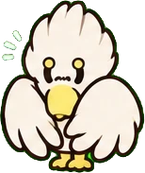
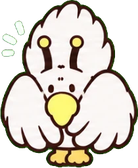
랜덤 디펜스: 기본 악당 3종도 원작 괴물 그림으로 · 회복 보스(큰 새) 줄 교체
코드로 그린 보라 괴물 대신 사람이 원작 만화를 참고해 만든 시트(tools/sheets/basic.webp)로:
꼬물이 = 가위바위보 · 단단이 = 피망 고기말이 · 졸개 = 오멘 키메라. 걷기 · 맞음 · 쓰러짐(처치 때 잠깐 남음).
- monsters_slice.py: BASIC_ROWS(e_ 파일, monsters.js 의 basic) 추가. 단단이 피망 초록이 번짐 깎기에 지워져 탁해져서
  원래 초록을 지키는 키로. 졸개는 긴 귀까지 키에 들어가 몸이 너무 작아 보여(사람 지적) 키 30 도트.
- mon.js 가 basic 을 불러오고, game.js 는 특성 없는 괴물에 basic 프레임 — 못 받으면 예전 그림 그대로.
- 회복 보스 줄은 다시 받은 한 줄 시트(bosses_heal.webp, ROW_SHEET). 파일 이름이 같아 sw.js VERSION v3.

Claude-Session: https://claude.ai/code/session_01Uqv9B2V2ARiMb2Naqp8vN9

diff --git a/assets/monsters/monsters.js b/assets/monsters/monsters.js
@@ -1,4 +1,4 @@
-/* 괴물 특성 5종 · 보스 4종 프레임 목록 — tools/monsters_slice.py 가 씁니다(손으로 고치지 말 것).
+/* 기본 악당 3종 · 괴물 특성 5종 · 보스 4종 프레임 목록 — tools/monsters_slice.py 가 씁니다(손으로 고치지 말 것).
    그림: 사람이 만든 초록 바탕 시트(tools/sheets/)를 자른 PNG. 시트 괴물 · 보스 걷기 모두 왼쪽을 봅니다.
    f = 파일, w·h = 크기(px), ax·ay = 발 기준점(px), k = 그림 1px 의 도트 수. */
-window.CD_MON_FILES = {"k":0.333333,"mon":{"fast":{"walk":[{"f":"m_fast_walk_0.png","w":109,"h":88,"ax":48.3,"ay":86.8},{"f":"m_fast_walk_1.png","w":121,"h":84,"ax":51.6,"ay":83.5},{"f":"m_fast_walk_2.png","w":129,"h":81,"ax":52.5,"ay":80.2},{"f":"m_fast_walk_3.png","w":127,"h":85,"ax":51.6,"ay":81.0},{"f":"m_fast_walk_4.png","w":132,"h":86,"ax":51.6,"ay":79.3},{"f":"m_fast_walk_5.png","w":137,"h":83,"ax":54.1,"ay":81.8}],"hit":[{"f":"m_fast_hit_0.png","w":121,"h":107,"ax":54.1,"ay":105.8}],"down":[{"f":"m_fast_down_0.png","w":140,"h":98,"ax":68.5,"ay":97.5}]},"armor":{"walk":[{"f":"m_armor_walk_0.png","w":105,"h":82,"ax":46.5,"ay":81.0},{"f":"m_armor_walk_1.png","w":102,"h":81,"ax":43.7,"ay":81.0},{"f":"m_armor_walk_2.png","w":98,"h":80,"ax":40.2,"ay":79.6},{"f":"m_armor_walk_3.png","w":101,"h":82,"ax":47.2,"ay":79.6},{"f":"m_armor_walk_4.png","w":103,"h":82,"ax":43.7,"ay":81.7},{"f":"m_armor_walk_5.png","w":99,"h":82,"ax":44.4,"ay":81.7}],"hit":[{"f":"m_armor_hit_0.png","w":103,"h":92,"ax":54.9,"ay":92.2}],"down":[{"f":"m_armor_down_0.png","w":119,"h":52,"ax":53.7,"ay":52.4}]},"regen":{"walk":[{"f":"m_regen_walk_0.png","w":90,"h":80,"ax":39.6,"ay":79.7},{"f":"m_regen_walk_1.png","w":90,"h":81,"ax":38.3,"ay":80.4},{"f":"m_regen_walk_2.png","w":92,"h":82,"ax":40.9,"ay":81.0},{"f":"m_regen_walk_3.png","w":93,"h":83,"ax":38.9,"ay":81.0},{"f":"m_regen_walk_4.png","w":95,"h":82,"ax":38.3,"ay":81.6}],"heal":[{"f":"m_regen_heal_0.png","w":100,"h":82,"ax":37.6,"ay":79.7}],"hit":[{"f":"m_regen_hit_0.png","w":86,"h":93,"ax":46.0,"ay":92.7}],"down":[{"f":"m_regen_down_0.png","w":113,"h":56,"ax":52.1,"ay":56.4}]},"split":{"walk":[{"f":"m_split_walk_0.png","w":79,"h":76,"ax":33.2,"ay":75.6},{"f":"m_split_walk_1.png","w":78,"h":76,"ax":33.8,"ay":75.6},{"f":"m_split_walk_2.png","w":79,"h":75,"ax":35.1,"ay":75.0},{"f":"m_split_walk_3.png","w":81,"h":76,"ax":34.4,"ay":73.7},{"f":"m_split_walk_4.png","w":71,"h":75,"ax":35.1,"ay":75.0},{"f":"m_split_walk_5.png","w":81,"h":78,"ax":34.4,"ay":75.0}],"split":[{"f":"m_split_split_0.png","w":86,"h":71,"ax":33.8,"ay":70.6},{"f":"m_split_split_1.png","w":86,"h":69,"ax":33.1,"ay":68.6}],"small":[{"f":"m_split_small_0.png","w":61,"h":50,"ax":24.3,"ay":50.2},{"f":"m_split_small_1.png","w":60,"h":50,"ax":24.4,"ay":50.2}]},"revive":{"walk":[{"f":"m_revive_walk_0.png","w":102,"h":82,"ax":43.3,"ay":81.0},{"f":"m_revive_walk_1.png","w":102,"h":82,"ax":44.0,"ay":81.0},{"f":"m_revive_walk_2.png","w":98,"h":81,"ax":44.0,"ay":81.0},{"f":"m_revive_walk_3.png","w":108,"h":82,"ax":44.0,"ay":82.3},{"f":"m_revive_walk_4.png","w":108,"h":82,"ax":44.0,"ay":81.7},{"f":"m_revive_walk_5.png","w":108,"h":80,"ax":44.6,"ay":79.7}],"down":[{"f":"m_revive_down_0.png","w":100,"h":94,"ax":45.6,"ay":94.3}],"rise":[{"f":"m_revive_rise_0.png","w":114,"h":104,"ax":56.3,"ay":103.6}]}},"boss":{"silence":{"front":[{"f":"b_silence_front_0.png","w":154,"h":168,"ax":71.0,"ay":168.0}],"walk":[{"f":"b_silence_walk_0.png","w":153,"h":169,"ax":59.7,"ay":169.1},{"f":"b_silence_walk_1.png","w":142,"h":168,"ax":57.6,"ay":168.0},{"f":"b_silence_walk_2.png","w":147,"h":169,"ax":59.7,"ay":169.1}],"ready":[{"f":"b_silence_ready_0.png","w":158,"h":174,"ax":82.1,"ay":173.3},{"f":"b_silence_ready_1.png","w":165,"h":178,"ax":87.6,"ay":177.5}],"cast":[{"f":"b_silence_cast_0.png","w":188,"h":175,"ax":110.4,"ay":174.3},{"f":"b_silence_cast_1.png","w":183,"h":178,"ax":100.6,"ay":177.5}]},"summon":{"front":[{"f":"b_summon_front_0.png","w":164,"h":171,"ax":82.8,"ay":171.2}],"walk":[{"f":"b_summon_walk_0.png","w":171,"h":169,"ax":87.2,"ay":169.1},{"f":"b_summon_walk_1.png","w":168,"h":169,"ax":86.1,"ay":160.5},{"f":"b_summon_walk_2.png","w":183,"h":169,"ax":92.6,"ay":168.0}],"ready":[{"f":"b_summon_ready_0.png","w":180,"h":187,"ax":102.4,"ay":187.4},{"f":"b_summon_ready_1.png","w":181,"h":184,"ax":101.3,"ay":184.2}],"cast":[{"f":"b_summon_cast_0.png","w":194,"h":178,"ax":107.4,"ay":176.6},{"f":"b_summon_cast_1.png","w":192,"h":180,"ax":112.0,"ay":179.8}]},"heal":{"front":[{"f":"b_heal_front_0.png","w":163,"h":168,"ax":80.2,"ay":167.1}],"walk":[{"f":"b_heal_walk_0.png","w":143,"h":168,"ax":63.7,"ay":168.0},{"f":"b_heal_walk_1.png","w":144,"h":168,"ax":65.6,"ay":168.0},{"f":"b_heal_walk_2.png","w":161,"h":168,"ax":67.5,"ay":164.2}],"ready":[{"f":"b_heal_ready_0.png","w":145,"h":173,"ax":69.8,"ay":172.7},{"f":"b_heal_ready_1.png","w":142,"h":174,"ax":70.8,"ay":172.7}],"cast":[{"f":"b_heal_cast_0.png","w":168,"h":173,"ax":94.6,"ay":172.7},{"f":"b_heal_cast_1.png","w":174,"h":174,"ax":87.7,"ay":173.7}]},"shuffle":{"front":[{"f":"b_shuffle_front_0.png","w":177,"h":155,"ax":89.2,"ay":155.1}],"walk":[{"f":"b_shuffle_walk_0.png","w":188,"h":143,"ax":87.6,"ay":139.7},{"f":"b_shuffle_walk_1.png","w":145,"h":151,"ax":75.6,"ay":150.9},{"f":"b_shuffle_walk_2.png","w":189,"h":159,"ax":96.2,"ay":153.4}],"ready":[{"f":"b_shuffle_ready_0.png","w":194,"h":189,"ax":96.5,"ay":189.4},{"f":"b_shuffle_ready_1.png","w":175,"h":177,"ax":87.2,"ay":176.6}],"cast":[{"f":"b_shuffle_cast_0.png","w":182,"h":185,"ax":112.2,"ay":168.9},{"f":"b_shuffle_cast_1.png","w":187,"h":183,"ax":106.2,"ay":167.1}]}}};
+window.CD_MON_FILES = {"k":0.333333,"mon":{"fast":{"walk":[{"f":"m_fast_walk_0.png","w":109,"h":88,"ax":48.3,"ay":86.8},{"f":"m_fast_walk_1.png","w":121,"h":84,"ax":51.6,"ay":83.5},{"f":"m_fast_walk_2.png","w":129,"h":81,"ax":52.5,"ay":80.2},{"f":"m_fast_walk_3.png","w":127,"h":85,"ax":51.6,"ay":81.0},{"f":"m_fast_walk_4.png","w":132,"h":86,"ax":51.6,"ay":79.3},{"f":"m_fast_walk_5.png","w":137,"h":83,"ax":54.1,"ay":81.8}],"hit":[{"f":"m_fast_hit_0.png","w":121,"h":107,"ax":54.1,"ay":105.8}],"down":[{"f":"m_fast_down_0.png","w":140,"h":98,"ax":68.5,"ay":97.5}]},"armor":{"walk":[{"f":"m_armor_walk_0.png","w":105,"h":82,"ax":46.5,"ay":81.0},{"f":"m_armor_walk_1.png","w":102,"h":81,"ax":43.7,"ay":81.0},{"f":"m_armor_walk_2.png","w":98,"h":80,"ax":40.2,"ay":79.6},{"f":"m_armor_walk_3.png","w":101,"h":82,"ax":47.2,"ay":79.6},{"f":"m_armor_walk_4.png","w":103,"h":82,"ax":43.7,"ay":81.7},{"f":"m_armor_walk_5.png","w":99,"h":82,"ax":44.4,"ay":81.7}],"hit":[{"f":"m_armor_hit_0.png","w":103,"h":92,"ax":54.9,"ay":92.2}],"down":[{"f":"m_armor_down_0.png","w":119,"h":52,"ax":53.7,"ay":52.4}]},"regen":{"walk":[{"f":"m_regen_walk_0.png","w":90,"h":80,"ax":39.6,"ay":79.7},{"f":"m_regen_walk_1.png","w":90,"h":81,"ax":38.3,"ay":80.4},{"f":"m_regen_walk_2.png","w":92,"h":82,"ax":40.9,"ay":81.0},{"f":"m_regen_walk_3.png","w":93,"h":83,"ax":38.9,"ay":81.0},{"f":"m_regen_walk_4.png","w":95,"h":82,"ax":38.3,"ay":81.6}],"heal":[{"f":"m_regen_heal_0.png","w":100,"h":82,"ax":37.6,"ay":79.7}],"hit":[{"f":"m_regen_hit_0.png","w":86,"h":93,"ax":46.0,"ay":92.7}],"down":[{"f":"m_regen_down_0.png","w":113,"h":56,"ax":52.1,"ay":56.4}]},"split":{"walk":[{"f":"m_split_walk_0.png","w":79,"h":76,"ax":33.2,"ay":75.6},{"f":"m_split_walk_1.png","w":78,"h":76,"ax":33.8,"ay":75.6},{"f":"m_split_walk_2.png","w":79,"h":75,"ax":35.1,"ay":75.0},{"f":"m_split_walk_3.png","w":81,"h":76,"ax":34.4,"ay":73.7},{"f":"m_split_walk_4.png","w":71,"h":75,"ax":35.1,"ay":75.0},{"f":"m_split_walk_5.png","w":81,"h":78,"ax":34.4,"ay":75.0}],"split":[{"f":"m_split_split_0.png","w":86,"h":71,"ax":33.8,"ay":70.6},{"f":"m_split_split_1.png","w":86,"h":69,"ax":33.1,"ay":68.6}],"small":[{"f":"m_split_small_0.png","w":61,"h":50,"ax":24.3,"ay":50.2},{"f":"m_split_small_1.png","w":60,"h":50,"ax":24.4,"ay":50.2}]},"revive":{"walk":[{"f":"m_revive_walk_0.png","w":102,"h":82,"ax":43.3,"ay":81.0},{"f":"m_revive_walk_1.png","w":102,"h":82,"ax":44.0,"ay":81.0},{"f":"m_revive_walk_2.png","w":98,"h":81,"ax":44.0,"ay":81.0},{"f":"m_revive_walk_3.png","w":108,"h":82,"ax":44.0,"ay":82.3},{"f":"m_revive_walk_4.png","w":108,"h":82,"ax":44.0,"ay":81.7},{"f":"m_revive_walk_5.png","w":108,"h":80,"ax":44.6,"ay":79.7}],"down":[{"f":"m_revive_down_0.png","w":100,"h":94,"ax":45.6,"ay":94.3}],"rise":[{"f":"m_revive_rise_0.png","w":114,"h":104,"ax":56.3,"ay":103.6}]}},"boss":{"silence":{"front":[{"f":"b_silence_front_0.png","w":154,"h":168,"ax":71.0,"ay":168.0}],"walk":[{"f":"b_silence_walk_0.png","w":153,"h":169,"ax":59.7,"ay":169.1},{"f":"b_silence_walk_1.png","w":142,"h":168,"ax":57.6,"ay":168.0},{"f":"b_silence_walk_2.png","w":147,"h":169,"ax":59.7,"ay":169.1}],"ready":[{"f":"b_silence_ready_0.png","w":158,"h":174,"ax":82.1,"ay":173.3},{"f":"b_silence_ready_1.png","w":165,"h":178,"ax":87.6,"ay":177.5}],"cast":[{"f":"b_silence_cast_0.png","w":188,"h":175,"ax":110.4,"ay":174.3},{"f":"b_silence_cast_1.png","w":183,"h":178,"ax":100.6,"ay":177.5}]},"summon":{"front":[{"f":"b_summon_front_0.png","w":164,"h":171,"ax":82.8,"ay":171.2}],"walk":[{"f":"b_summon_walk_0.png","w":171,"h":169,"ax":87.2,"ay":169.1},{"f":"b_summon_walk_1.png","w":168,"h":169,"ax":86.1,"ay":160.5},{"f":"b_summon_walk_2.png","w":183,"h":169,"ax":92.6,"ay":168.0}],"ready":[{"f":"b_summon_ready_0.png","w":180,"h":187,"ax":102.4,"ay":187.4},{"f":"b_summon_ready_1.png","w":181,"h":184,"ax":101.3,"ay":184.2}],"cast":[{"f":"b_summon_cast_0.png","w":194,"h":178,"ax":107.4,"ay":176.6},{"f":"b_summon_cast_1.png","w":192,"h":180,"ax":112.0,"ay":179.8}]},"heal":{"front":[{"f":"b_heal_front_0.png","w":147,"h":169,"ax":75.7,"ay":168.7}],"walk":[{"f":"b_heal_walk_0.png","w":130,"h":169,"ax":66.6,"ay":168.7},{"f":"b_heal_walk_1.png","w":138,"h":166,"ax":67.9,"ay":166.0},{"f":"b_heal_walk_2.png","w":148,"h":169,"ax":71.2,"ay":168.0}],"ready":[{"f":"b_heal_ready_0.png","w":138,"h":168,"ax":68.9,"ay":167.3},{"f":"b_heal_ready_1.png","w":134,"h":170,"ax":68.3,"ay":170.0}],"cast":[{"f":"b_heal_cast_0.png","w":149,"h":170,"ax":81.0,"ay":169.3},{"f":"b_heal_cast_1.png","w":150,"h":169,"ax":76.5,"ay":168.7}]},"shuffle":{"front":[{"f":"b_shuffle_front_0.png","w":177,"h":155,"ax":89.2,"ay":155.1}],"walk":[{"f":"b_shuffle_walk_0.png","w":188,"h":143,"ax":87.6,"ay":139.7},{"f":"b_shuffle_walk_1.png","w":145,"h":151,"ax":75.6,"ay":150.9},{"f":"b_shuffle_walk_2.png","w":189,"h":159,"ax":96.2,"ay":153.4}],"ready":[{"f":"b_shuffle_ready_0.png","w":194,"h":189,"ax":96.5,"ay":189.4},{"f":"b_shuffle_ready_1.png","w":175,"h":177,"ax":87.2,"ay":176.6}],"cast":[{"f":"b_shuffle_cast_0.png","w":182,"h":185,"ax":112.2,"ay":168.9},{"f":"b_shuffle_cast_1.png","w":187,"h":183,"ax":106.2,"ay":167.1}]}},"basic":{"blob":{"walk":[{"f":"e_blob_walk_0.png","w":91,"h":83,"ax":48.8,"ay":82.2},{"f":"e_blob_walk_1.png","w":99,"h":77,"ax":49.4,"ay":77.4},{"f":"e_blob_walk_2.png","w":97,"h":81,"ax":49.4,"ay":81.0},{"f":"e_blob_walk_3.png","w":97,"h":85,"ax":51.8,"ay":79.2},{"f":"e_blob_walk_4.png","w":96,"h":82,"ax":50.0,"ay":82.2},{"f":"e_blob_walk_5.png","w":94,"h":82,"ax":51.2,"ay":81.6}],"hit":[{"f":"e_blob_hit_0.png","w":103,"h":99,"ax":50.0,"ay":98.5}],"down":[{"f":"e_blob_down_0.png","w":100,"h":77,"ax":54.4,"ay":76.8}]},"tank":{"walk":[{"f":"e_tank_walk_0.png","w":84,"h":92,"ax":43.0,"ay":92.4},{"f":"e_tank_walk_1.png","w":98,"h":89,"ax":46.5,"ay":89.5},{"f":"e_tank_walk_2.png","w":92,"h":94,"ax":45.3,"ay":93.6},{"f":"e_tank_walk_3.png","w":91,"h":95,"ax":45.3,"ay":94.8},{"f":"e_tank_walk_4.png","w":93,"h":94,"ax":45.9,"ay":93.6},{"f":"e_tank_walk_5.png","w":87,"h":92,"ax":43.0,"ay":92.4}],"hit":[{"f":"e_tank_hit_0.png","w":99,"h":95,"ax":51.2,"ay":93.0}],"down":[{"f":"e_tank_down_0.png","w":113,"h":101,"ax":62.7,"ay":101.2}]},"minion":{"walk":[{"f":"e_minion_walk_0.png","w":84,"h":91,"ax":34.3,"ay":91.1},{"f":"e_minion_walk_1.png","w":84,"h":90,"ax":33.2,"ay":90.0},{"f":"e_minion_walk_2.png","w":86,"h":91,"ax":33.2,"ay":83.9},{"f":"e_minion_walk_3.png","w":88,"h":96,"ax":33.2,"ay":83.3}],"hit":[{"f":"e_minion_hit_0.png","w":93,"h":92,"ax":42.1,"ay":92.2}],"down":[{"f":"e_minion_down_0.png","w":91,"h":75,"ax":45.4,"ay":74.4}]}}};

diff --git a/js/mon.js b/js/mon.js
@@ -1,10 +1,10 @@
-/* 괴물 특성 5종 · 보스 4종 그림 — 사람이 만든 초록 바탕 시트를 tools/monsters_slice.py 로 자른 PNG.
-   목록은 assets/monsters/monsters.js (window.CD_MON_FILES). 특성 없는 일반 괴물(꼬물이·단단이)은 art.js 가 그린 그대로.
+/* 기본 악당 3종 · 괴물 특성 5종 · 보스 4종 그림 — 사람이 만든 초록 바탕 시트를 tools/monsters_slice.py 로 자른 PNG.
+   목록은 assets/monsters/monsters.js (window.CD_MON_FILES). 특성 없는 기본 악당(꼬물이 · 단단이 · 졸개)은 basic — 없으면 art.js 가 그린 예전 그림.
    프레임 = { img, w, h, ax, ay } — 전부 「도트」 단위(그림 1px = k 도트)라 그리는 쪽은 drawImage 크기만 맞추면 됩니다.
    시트 괴물 · 보스 걷기 모두 왼쪽을 봅니다 — 길 방향에 따라 좌우 반전은 game.js 가. */
 (function () {
   const CD = (window.CD = window.CD || {});
-  const M = { ready: false, mon: {}, boss: {} };
+  const M = { ready: false, mon: {}, boss: {}, basic: {} };
 
   M.load = function (done) {
     const F = window.CD_MON_FILES;
@@ -16,14 +16,14 @@
       im.onerror = () => ok();   // 한 장 못 불러오면 그 프레임만 빠짐 (일반 괴물 그림으로 대신)
       im.src = 'assets/monsters/' + e.f;
     }));
-    for (const grp of ['mon', 'boss']) {
-      for (const name in F[grp]) {
+    for (const grp of ['mon', 'boss', 'basic']) {
+      for (const name in F[grp] || {}) {
         const dst = (M[grp][name] = {});
         for (const act in F[grp][name]) { dst[act] = []; F[grp][name][act].forEach((e, i) => one(e, (f) => (dst[act][i] = f))); }
       }
     }
     Promise.all(jobs).then(() => {
-      for (const grp of ['mon', 'boss']) for (const name in M[grp]) for (const act in M[grp][name]) M[grp][name][act] = M[grp][name][act].filter(Boolean);
+      for (const grp of ['mon', 'boss', 'basic']) for (const name in M[grp]) for (const act in M[grp][name]) M[grp][name][act] = M[grp][name][act].filter(Boolean);
       M.ready = true;
       done();
     });

diff --git a/js/game.js b/js/game.js
@@ -432,6 +432,8 @@
           if (e.trait && MON.ready) {
             const act = e.trait === 'split' ? (e.small ? 'small' : 'split') : 'down';
             view.fx.push({ type: 'corpse', grp: 'mon', name: e.trait, act, x: X, y: Y, flip: facesRight(e.dir), t: 0, life: e.trait === 'split' && !e.small ? 0.5 : 0.55 });
+          } else if (!e.trait && e.kind !== 'boss' && MON.ready && MON.basic[e.kind]) {
+            view.fx.push({ type: 'corpse', grp: 'basic', name: e.kind, act: 'down', x: X, y: Y, flip: facesRight(e.dir), t: 0, life: 0.5 });
           }
           if (!pfx('poof', X, Y + 10)) view.fx.push({ type: 'poof', x: X, y: Y - 4, t: 0, life: 0.3, r: e.kind === 'boss' ? 26 : 10 });
           if (e.kind === 'boss') { pfx('crit', X, Y + 15); pfx('poof', X - 10, Y + 14, { delay: 0.08 }); pfx('poof', X + 10, Y + 14, { delay: 0.16 }); }
@@ -629,8 +631,14 @@
       if (ph === 'cast') return { f: MON.frame('boss', e.bt, 'cast', k), face: true };
       return { f: MON.frame('boss', e.bt, 'walk', k), flip: facesRight(e.dir) };
     }
-    if (!e.trait) return null;
     const flip = facesRight(e.dir);
+    // 특성 없는 기본 악당(꼬물이 · 단단이 · 졸개): basic 시트 — 없으면 null 로 예전 그린 괴물
+    if (!e.trait) {
+      const B = MON.basic && MON.basic[e.kind];
+      if (!B) return null;
+      if (view.bigHit.get(e.id) > 0) return { f: MON.frame('basic', e.kind, 'hit', 0), flip };
+      return { f: MON.frame('basic', e.kind, 'walk', Math.floor(t * (e.kind === 'minion' ? 10 : e.kind === 'tank' ? 6 : 8) + e.id)), flip };
+    }
     if (e.downT > 0) {
       const k = 1 - e.downT / TR.revive.downT;
       return { f: MON.frame('mon', 'revive', k < 0.6 ? 'down' : 'rise', 0), flip, ghost: k < 0.6 };

diff --git a/sw.js b/sw.js
@@ -11,7 +11,7 @@
 
 // ── 바꿀 곳 ──────────────────────────────────────────────
 // 1) 판 번호: 캐시 이름에 붙음. 올리면 activate 때 옛 캐시를 지움 (코드는 어차피 network-first 라 그림을 크게 바꿨을 때만 올리면 됨)
-const VERSION = 'v2';   // 2026-11-04 괴물 · 보스 그림 교체(파일 이름이 같아 캐시를 새로)
+const VERSION = 'v3';   // 2026-11-04 괴물 · 보스 · 기본 악당 그림 교체(파일 이름이 같아 캐시를 새로)
 const PREFIX = 'ck-defense-';
 // 2) 설치하자마자 담아 둘 뼈대 (나머지는 warm · 쓰면서 담김). 하나가 404 여도 설치는 계속됨
 const CORE = ['./', './index.html', './manifest.webmanifest', './inapp.css', './js/inapp.js'];

diff --git a/tools/monsters_slice.py b/tools/monsters_slice.py
@@ -8,7 +8,9 @@
       고속 = 중지데스: 걷기 6 · 맞음 · 쓰러짐 / 장갑 = 아미아브라: 걷기 6 · 맞음 · 쓰러짐 / 재생 = 간장 문어: 걷기 5 · 회복 반짝 · 맞음 · 쓰러짐
       분열 = 생크림: 걷기 6 · 갈라짐 2 · 작은 것 2 / 부활 = 분홍 키메라: 걷기 6 · 쓰러짐(초록 반투명) · 다시 일어남
   tools/sheets/bosses.webp — 보스 4줄 × 8칸: 침묵 = 세이렌 · 소환 = 아노코 · 회복 = 큰 새 · 셔플 = 두부 의태형.
-      셔플 줄은 다시 받은 한 줄 시트 tools/sheets/bosses_shuffle.webp 에서 읽음(ROW_SHEET).
+      셔플 · 회복 줄은 다시 받은 한 줄 시트 tools/sheets/bosses_shuffle.webp · bosses_heal.webp 에서 읽음(ROW_SHEET).
+  tools/sheets/basic.webp — 특성 없는 기본 악당 3줄: 꼬물이 = 가위바위보 · 단단이 = 피망 고기말이(걷기 6 · 맞음 · 쓰러짐) ·
+      졸개 = 오멘 키메라(걷기 4 · 맞음 · 쓰러짐). 단단이는 크게(키 31) · 졸개는 긴 귀까지 키라 몸이 작아 보이지 않게 30.
       앞 4칸 걷기(0 = 정면, 1~3 = 왼쪽을 봄), 5·6칸 = 기술 준비, 7·8칸 = 쓰는 중.
   칸 경계는 시트를 바꿀 때마다 초록 틈(그림이 없는 세로줄)을 재서 아래 MON_ROWS · BOSS_ROWS 에 적음.
 
@@ -55,11 +57,17 @@ MON_ROWS = {
 BOSS_ROWS = {
     "silence": (80, 273, [112, 295, 469, 633, 802, 976, 1146, 1337, 1530]),
     "summon":  (301, 497, [112, 290, 467, 635, 815, 990, 1166, 1340, 1530]),
-    "heal":    (532, 740, [112, 292, 463, 633, 816, 986, 1154, 1342, 1530]),
+    "heal":    (190, 462, [140, 375, 589, 817, 1058, 1287, 1509, 1751, 1990]),   # 따로 받은 한 줄 시트(ROW_SHEET)
     "shuffle": (210, 460, [140, 364, 606, 805, 1051, 1299, 1520, 1751, 1990]),   # 따로 받은 한 줄 시트(ROW_SHEET)
 }
 # 줄 하나만 다시 받은 경우: 그 줄은 이 파일에서 읽음 (좌표도 그 파일 기준)
-ROW_SHEET = {"shuffle": "bosses_shuffle.webp"}
+ROW_SHEET = {"shuffle": "bosses_shuffle.webp", "heal": "bosses_heal.webp"}
+# 특성 없는 기본 악당 (tools/sheets/basic.webp, 2026-11-04): 꼬물이 = 가위바위보 · 단단이 = 피망 고기말이 · 졸개 = 오멘 키메라
+BASIC_ROWS = {
+    "blob":   (154, 334, [140, 303, 480, 648, 818, 992, 1161, 1345, 1530], ["walk"] * 6 + ["hit", "down"]),
+    "tank":   (449, 633, [140, 294, 478, 648, 820, 996, 1156, 1331, 1530], ["walk"] * 6 + ["hit", "down"]),
+    "minion": (728, 913, [140, 300, 472, 643, 813, 984, 1170], ["walk"] * 4 + ["hit", "down"]),
+}
 BOSS_NAMES = ["front", "walk", "walk", "walk", "ready", "ready", "cast", "cast"]
 
 
@@ -172,8 +180,8 @@ def scale_rgba(arr, k):
 
 # 원래 초록(잎 · 초록 유령 · 연두 빛)이 있는 줄 → 그 프레임 이름들(None = 줄 전체). 부활은 쓰러짐(초록 유령)만 —
 # 걷기·일어남의 하늘색 꼬리는 전부 깎아야 청록으로 물들지 않음
-GREEN = {"fast": None, "regen": {"heal"}, "heal": None, "revive": {"down"}}   # fast = 연두색 중지데스(원래 초록을 지킴)
-ROW_H = {"split": 25, "shuffle": 50}                        # 분열(생크림)은 넓적해서 · 셔플(두부)은 키에 긴 팔까지 들어가 조금 낮춤 (칸 폭 · 다른 보스 크기를 넘지 않게)
+GREEN = {"fast": None, "tank": None, "regen": {"heal"}, "heal": None, "revive": {"down"}}   # fast = 연두색 중지데스 · tank = 초록 피망(원래 초록을 지킴)
+ROW_H = {"split": 25, "shuffle": 50, "tank": 31, "minion": 30}                        # 분열(생크림)은 넓적해서 · 셔플(두부)은 키에 긴 팔까지 들어가 조금 낮춤 (칸 폭 · 다른 보스 크기를 넘지 않게)
 
 
 def slice_rows(sheet, rows, names_of, target_h, prefix):
@@ -257,16 +265,17 @@ def main():
         p.unlink()
     mon, d1 = slice_rows(SHEETS / "monsters.webp", MON_ROWS, lambda s: s[3], MON_H, "m_")
     boss, d2 = slice_rows(SHEETS / "bosses.webp", BOSS_ROWS, lambda s: BOSS_NAMES, BOSS_H, "b_")
+    basic, d3 = slice_rows(SHEETS / "basic.webp", BASIC_ROWS, lambda s: s[3], MON_H, "e_")
     js = (
-        "/* 괴물 특성 5종 · 보스 4종 프레임 목록 — tools/monsters_slice.py 가 씁니다(손으로 고치지 말 것).\n"
+        "/* 기본 악당 3종 · 괴물 특성 5종 · 보스 4종 프레임 목록 — tools/monsters_slice.py 가 씁니다(손으로 고치지 말 것).\n"
         "   그림: 사람이 만든 초록 바탕 시트(tools/sheets/)를 자른 PNG. 시트 괴물 · 보스 걷기 모두 왼쪽을 봅니다.\n"
         "   f = 파일, w·h = 크기(px), ax·ay = 발 기준점(px), k = 그림 1px 의 도트 수. */\n"
-        f"window.CD_MON_FILES = {json.dumps({'k': round(1 / DOTS, 6), 'mon': mon, 'boss': boss}, ensure_ascii=False, separators=(',', ':'))};\n"
+        f"window.CD_MON_FILES = {json.dumps({'k': round(1 / DOTS, 6), 'mon': mon, 'boss': boss, 'basic': basic}, ensure_ascii=False, separators=(',', ':'))};\n"
     )
     (OUT / "monsters.js").write_text(js)
     print("monsters.js 씀 ·", len(list(OUT.glob('*.png'))), "장")
     if a.board:
-        board({**d1, **d2}, a.board)
+        board({**d3, **d1, **d2}, a.board)
 
 
 if __name__ == "__main__":

diff --git a/README.md b/README.md
@@ -13,7 +13,7 @@ js/sfx.js           효과음 — Web Audio 로 그 자리에서 합성 (잡음 
 js/pfxlayer.js      픽셀 효과 층 — js/pfx/ 의 pixelfx 효과를 판 위에 얹음 (module · 못 받아도 게임은 예전 효과로)
 js/pfx/             patch-gg/pixelfx(MIT) 에서 옮겨 온 core + 효과 9개. 손으로 고치지 않음 — NOTICE.md
 assets/chars/       친구 8명 시트 프레임 (chars_manifest.py)
-assets/monsters/    괴물 특성 5종 · 보스 4종 프레임 (tools/monsters_slice.py)
+assets/monsters/    기본 악당 3종 · 괴물 특성 5종 · 보스 4종 프레임 (tools/monsters_slice.py)
 assets/tiles/       판 타일(풀밭 칸 · 흙길) · 소품(울타리 · 덤불 · 괴물 굴 …) (tools/tiles_slice.py)
 assets/bg/          배경 맵(낮 들판 · 밤 숲) · 표지 (tools/tiles_slice.py)
 js/tiles.js         타일로 판 바닥 · 위 여백 띠 굽기 (못 받으면 art.js 의 예전 바닥)
@@ -115,6 +115,8 @@ UA 는 `js/inapp.js` 에서만, 「어느 앱 안인가」 를 가르는 데만 
 
 - 친구 8명: `assets/chars/` (다른 작업 — `tools/chars_manifest.py`).
 - 특성 괴물 · 보스: 사람이 만든 초록 바탕 시트(`tools/sheets/monsters.webp` · `bosses.webp`)를 `tools/monsters_slice.py` 로 잘라 `assets/monsters/`.
+  기본 악당(특성 없음)도 `tools/sheets/basic.webp` 에서: 꼬물이 = 가위바위보 · 단단이 = 피망 고기말이 · 졸개 = 오멘 키메라 (못 받으면 art.js 의 예전 그림).
+  보스 셔플 · 회복 줄은 다시 받은 한 줄 시트(`bosses_shuffle.webp` · `bosses_heal.webp`, 도구의 `ROW_SHEET`).
   2026-11-04 부터 원작 『치이카와』 괴물로: 고속 = 중지데스 · 장갑 = 아미아브라 · 재생 = 간장 문어 · 분열 = 생크림 · 부활 = 분홍 키메라 / 보스 침묵 = 세이렌 · 소환 = 아노코 · 회복 = 큰 새 · 셔플 = 두부 의태형.
   시트를 바꾸면 초록 틈을 다시 재서 `MON_ROWS` · `BOSS_ROWS` 의 칸 경계를 고치고, 파일 이름이 같으므로 `sw.js` 의 `VERSION` 을 올림.
   크로마키는 「초록 정도」 gn = G − max(R,B) 로 키를 좁게(185 이상 투명, 130 이하 불투명) 잡아서 재생 괴물 잎(≈70) · 부활 쓰러짐 초록 유령(≈95~120) · 회복 보스 연두 빛을 지우지 않습니다.
